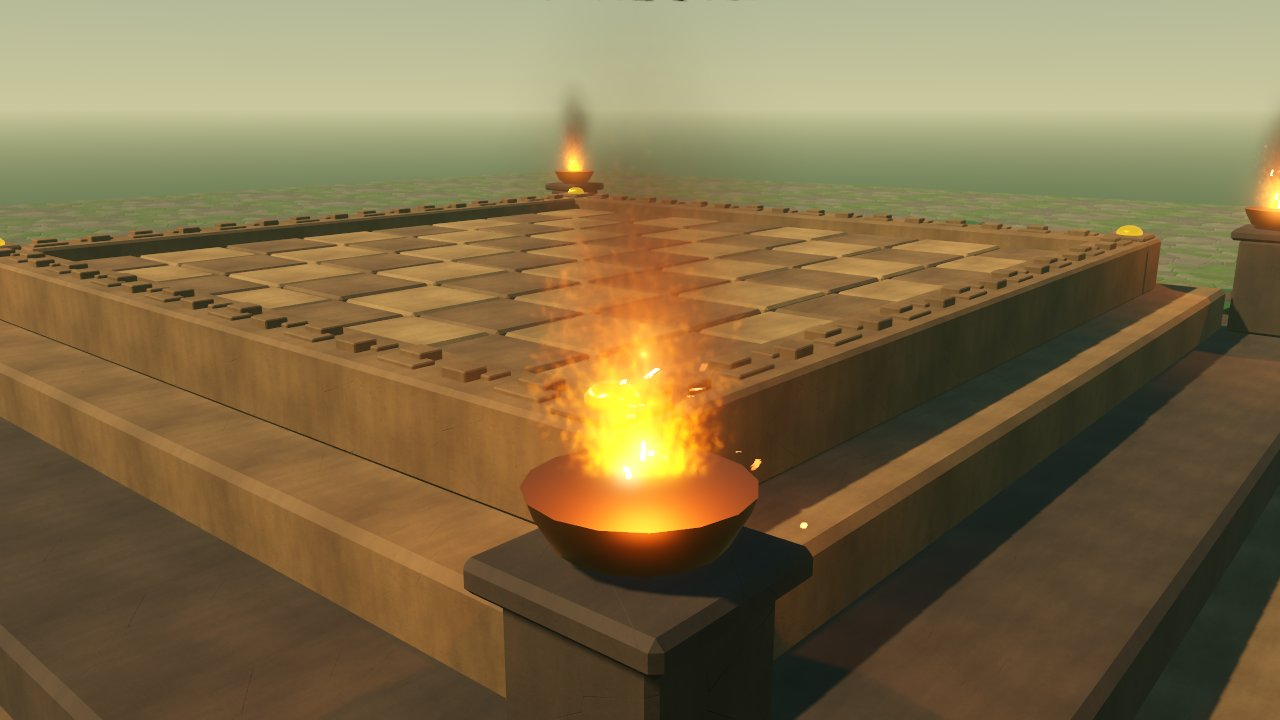
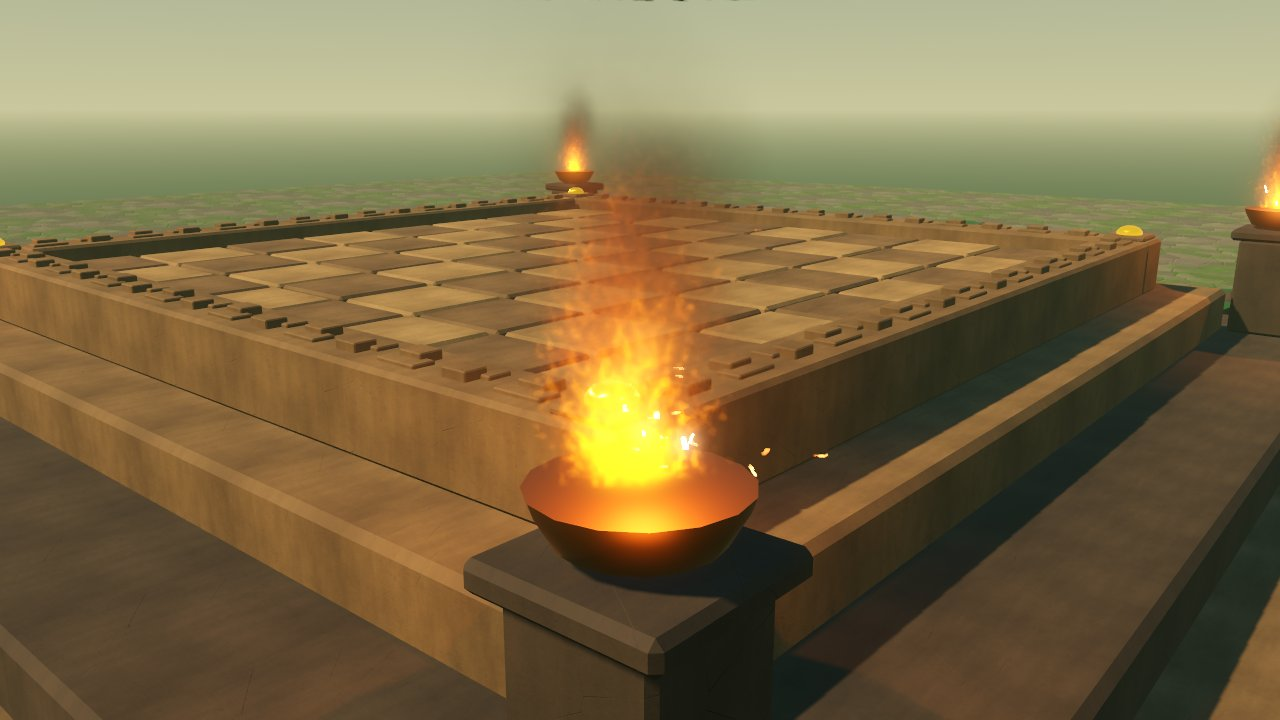
fix(fx): fire review findings and no trail warnings on web (WP-49)
- Embers carry their tube mesh in metadata; QualityTiers attaches it and
  turns trails on only on tiers that have them, and SH_EmberTrail drops
  the particle_trails render mode on Compatibility, so the web build logs
  no trail warnings (the web smoke test failed on them).
- SH_Fire brightness is relative to the hotter of the two temperatures,
  so a min above max cannot blow out; generated uniforms are grouped,
  ranged and default to the base material's values.
- gen_fire.py writes the sheets' import settings: lossless, mipmaps for
  the flame sheet, none for the motion sheet, no VRAM compression.
- SH_HeatHaze samples the screen without a mip chain.
- fire.md: hi/ materials are not swapped in by the game yet, volumetric
  fog is off in the theme, corrected memory and ALU numbers, web draw
  calls against the cap.

Claude-Session: https://claude.ai/code/session_01USZPpjveMGGEvLDbALP3BK

diff --git a/extension/src/render/quality_tiers.cpp b/extension/src/render/quality_tiers.cpp
@@ -15,6 +15,8 @@
 #include <godot_cpp/classes/config_file.hpp>
 #include <godot_cpp/classes/engine.hpp>
 #include <godot_cpp/classes/environment.hpp>
+#include <godot_cpp/classes/gpu_particles3d.hpp>
+#include <godot_cpp/classes/mesh.hpp>
 #include <godot_cpp/classes/light3d.hpp>
 #include <godot_cpp/classes/node3d.hpp>
 #include <godot_cpp/classes/omni_light3d.hpp>
@@ -23,6 +25,7 @@
 #include <godot_cpp/classes/rendering_server.hpp>
 #include <godot_cpp/classes/resource_loader.hpp>
 #include <godot_cpp/classes/scene_tree.hpp>
+#include <godot_cpp/classes/tube_trail_mesh.hpp>
 #include <godot_cpp/classes/viewport.hpp>
 #include <godot_cpp/classes/window.hpp>
 #include <godot_cpp/classes/world_environment.hpp>
@@ -322,6 +325,19 @@ void QualityTiers::apply_node(Node* node) {
                          p.has(q::Feature::FogFireLight) ? static_cast<float>(energy) : 0.0f);
     }
 
+    // Trails are authored off, with the trail mesh in metadata/trail_mesh,
+    // and switched on here: the Compatibility renderer warns as soon as a
+    // particle system has trails or a trail mesh, even a hidden one.
+    if (auto* particles = Object::cast_to<GPUParticles3D>(node);
+        particles && particles->is_in_group("quality:particle_trails")) {
+        const bool trails = p.has(q::Feature::ParticleTrails);
+        if (trails && particles->has_meta("trail_mesh")) {
+            const Ref<Mesh> mesh = particles->get_meta("trail_mesh");
+            if (mesh.is_valid()) particles->set_draw_pass_mesh(0, mesh);
+        }
+        particles->set_trail_enabled(trails);
+    }
+
     const TypedArray<StringName> groups = node->get_groups();
     for (int64_t i = 0; i < groups.size(); ++i) {
         const String group = groups[i];
@@ -440,6 +456,12 @@ void QualityTiers::run_self_test() {
     auto* cards = memnew(Node3D);
     cards->add_to_group("quality_fallback:volumetric_fog");
     scratch->add_child(cards);
+    auto* trails = memnew(GPUParticles3D);
+    trails->set_emitting(false);
+    trails->add_to_group("quality:particle_trails");
+    const Ref<TubeTrailMesh> trail_mesh = memnew(TubeTrailMesh);
+    trails->set_meta("trail_mesh", trail_mesh);
+    scratch->add_child(trails);
     std::vector<Light3D*> lights;
     for (int i = 0; i < 3; ++i) {
         auto* light = memnew(OmniLight3D);
@@ -467,6 +489,9 @@ void QualityTiers::run_self_test() {
         check(attrs->is_dof_blur_far_enabled() == p.has(q::Feature::DepthOfField), id, "depth of field");
         check(voxel->is_visible() == p.has(q::Feature::VoxelGi), id, "quality:voxel_gi node");
         check(cards->is_visible() == !p.has(q::Feature::VolumetricFog), id, "fog fallback node");
+        check(trails->is_trail_enabled() == p.has(q::Feature::ParticleTrails), id, "particle trails");
+        if (p.has(q::Feature::ParticleTrails))
+            check(trails->get_draw_pass_mesh(0) == trail_mesh, id, "particle trail mesh not attached");
         int shadowed = 0;
         for (Light3D* light : lights) shadowed += light->has_shadow() ? 1 : 0;
         check(shadowed == std::min(3, p.shadow_casting_lights), id, "shadow-casting light budget");

diff --git a/tools/assets/fx/gen_fire.py b/tools/assets/fx/gen_fire.py
@@ -322,6 +322,33 @@ def to_png(path, img):
     Image.fromarray(np.round(np.clip(img, 0, 1) * 255).astype(np.uint8), mode="RGBA").save(path, optimize=True)
 
 
+# Godot import settings for the sheets (git ignores both). The flame sheet
+# gets mipmaps, since the game camera shrinks a tile to a few dozen pixels;
+# the motion sheet must not, since averaged vectors are wrong at tile edges.
+# Both stay lossless: block compression would quantise the data channels.
+IMPORT = """[remap]
+
+importer="texture"
+type="CompressedTexture2D"
+
+[params]
+
+compress/mode=0
+mipmaps/generate={mipmaps}
+detect_3d/compress_to=0
+"""
+
+
+def write_import(png, mipmaps):
+    path = png.with_name(png.name + ".import")
+    flag = "true" if mipmaps else "false"
+    old = path.read_text() if path.exists() else ""
+    # Godot rewrites the file on import; keep its version once it agrees.
+    if f"mipmaps/generate={flag}" not in old or "detect_3d/compress_to=0" not in old:
+        path.parent.mkdir(parents=True, exist_ok=True)
+        path.write_text(IMPORT.format(mipmaps=flag))
+
+
 def main():
     params_path = Path(sys.argv[1]) if len(sys.argv) > 1 else ROOT / "tools/assets/fx/fire.json"
     p = json.loads(params_path.read_text())
@@ -334,6 +361,8 @@ def main():
     h.update(params_path.read_bytes())
     h.update(f"numpy {np.__version__} Pillow {PIL.__version__}".encode())
     stamp = out_dir / ".inputs"
+    for o in outputs:
+        write_import(o, mipmaps=o.name == "T_Fire_Flame.png")
     if stamp.exists() and stamp.read_text().strip() == h.hexdigest() and all(o.exists() for o in outputs):
         print(f"{p['theme']} fire: up to date")
         return

diff --git a/tools/assets/gen_theme_scenes.py b/tools/assets/gen_theme_scenes.py
@@ -255,8 +255,10 @@ def brazier_fire(p, theme):
     r.body += particles("Smoke", sm["amount"], sm["lifetime"], "smoke_process", "smoke_quad", mat["MI_FireSmoke"],
                         ["draw_order = 1"])
     r.body += particles("Flame", fl["amount"], fl["lifetime"], "flame_process", "flame_quad", mat["MI_Fire"])
-    r.body += particles("Embers", em["amount"], em["lifetime"], "ember_process", "ember_tube", mat["MI_EmberTrail"],
-                        ["trail_enabled = true", f"trail_lifetime = {em['trail_lifetime']}"],
+    # The trail mesh waits in metadata: QualityTiers attaches it and turns
+    # trails on only where the tier has them (Compatibility warns otherwise).
+    r.body += particles("Embers", em["amount"], em["lifetime"], "ember_process", "ember_quad", mat["MI_EmberTrail"],
+                        [f"trail_lifetime = {em['trail_lifetime']}", 'metadata/trail_mesh = SubResource("ember_tube")'],
                         groups="quality:particle_trails")
     r.body += particles("EmbersNoTrail", em["amount"], em["lifetime"], "ember_process", "ember_quad", mat["MI_Ember"],
                         groups="quality_fallback:particle_trails")

diff --git a/docs/reference/fire.md b/docs/reference/fire.md
@@ -92,6 +92,11 @@ cross-faded into the first, so frame 63 runs into frame 0.
 
 Both loops last 2.13 s, so the materials share `loop_seconds`.
 
+`gen_fire.py` also writes each sheet's Godot `.import` file (ignored by git,
+like the sheets): lossless, `detect_3d/compress_to=0`, mipmaps on for
+`T_Fire_Flame` (a tile is a few dozen pixels from the game camera) and off
+for `T_Fire_Motion` (averaged vectors are wrong at tile edges).
+
 ## `PF_BrazierFire`
 
 Parameters come from the theme's `fire` block (`tools/assets/themes/temple.json`)
@@ -127,14 +132,20 @@ soft edges.
 |---|---|---|---|
 | `flame_sheet`, `motion_sheet` | | | the sheets (data, not `source_color`) |
 | `sheet_grid` | 1 to 16 | 4 (8 in `hi/`) | tiles per side |
-| `motion_scale` | | 0.12 (0.03 in `hi/`) | must equal the sheet's `motion_scale` in `fire.json` |
-| `loop_seconds` | | 2.1333 | loop length |
-| `emission_gamma` | | 1.0 | must equal `render.emission_gamma` |
-| `temperature_min_k`, `temperature_max_k` | 600 to 2500, 1000 to 4000 | 1100, 1900 | kelvin for the sheet's temperature 0 and 1 |
+| `motion_scale` | 0.001 to 0.5 | 0.12 (0.03 in `hi/`) | must equal the sheet's `motion_scale` in `fire.json` |
+| `loop_seconds` | 0.1 to 10 | 2.1333 | loop length |
+| `emission_gamma` | 0.1 to 4 | 1.0 | must equal `render.emission_gamma` |
+| `temperature_min_k`, `temperature_max_k` | 600 to 2500, 1000 to 4000 | 1100, 1900 | kelvin for the sheet's temperature 0 and 1; keep min below max (a min above max inverts the colours but cannot blow out, since brightness is relative to the larger of the two) |
 | `temperature_brightness` | 0 to 4 | 1.5 | brightness grows as (T / max)^(4 × this) |
 | `intensity` | 0 to 40 | 10 | HDR brightness |
 | `foreshorten` | 0 to 1 | 0.45 | how much a quad shortens when seen from above |
 | `soft_distance` | 0 to 1 | 0.12 | metres over which the flame fades into geometry |
+
+`sheet_grid`, `motion_scale`, `loop_seconds` and `emission_gamma` sit in the
+inspector's `generated` group: they describe the sheets and change only
+with `fire.json`. The shader's own defaults are the base material's
+values, so resetting one in the inspector keeps the base sheet working.
+Below 1000 K the blackbody fit is out of range and gives plain red.
 
 Colour is a blackbody at the stored temperature (Planckian locus fit by
 Krystek, converted to linear sRGB), times emission, brightness and the
@@ -158,7 +169,9 @@ sample.
 ### `SH_Ember`, `SH_EmberTrail`
 
 Unshaded, additive. Colour from the particle ramp: yellow-white, orange,
-dull red, gone. `intensity` 0 to 40, default 8. `SH_EmberTrail` uses the
+dull red, gone. The ramp's colours reach the shader as linear values,
+so author them in linear (`Color(1, 0.55, 0.15)` displays paler than the
+same sRGB numbers). `intensity` 0 to 40, default 8. `SH_EmberTrail` uses the
 `particle_trails` render mode and fades along the trail.
 
 ### `SH_HeatHaze`
@@ -195,16 +208,22 @@ Shadows, volumetric fog energy and tier switches are handled by
 
 | | `desktop-high` | `desktop-standard` | `mobile` | `web` |
 |---|---|---|---|---|
-| Flame flipbook | 8×8, motion vectors (`hi/` materials) | 8×8 | 4×4 | 4×4 |
-| Smoke | lit, 8×8 | lit, 8×8 | lit, 4×4 | lit, 4×4 |
+| Flame flipbook | 8×8, motion vectors (`hi/` materials)\* | 8×8\* | 4×4 | 4×4 |
+| Smoke | lit, 8×8\* | lit, 8×8\* | lit, 4×4 | lit, 4×4 |
 | Embers | trails | trails | trails | dots, no trails |
 | Heat haze | yes | yes | no | no |
 | Fire light shadows | all four | nearest two | none | none |
-| Fire light in volumetric fog | yes | no | no fog | no fog |
+| Fire light in volumetric fog | yes\*\* | no | no fog | no fog |
 
-The `hi/` materials reach the game through `QualityTiers::resolve_variant`
-like every other desktop material; the look-dev scene `LD_Temple_Fire_Hi`
-sets them directly. The web export strips `hi/`, so it never carries the
+\* The `hi/` materials are chosen by `QualityTiers::resolve_variant`, which
+the board view does not call for materials yet
+([Board themes](board-themes.md)), so the game shows the 4×4 base sheets on
+every tier for now; the look-dev scene `LD_Temple_Fire_Hi` sets the `hi/`
+materials directly.
+
+\*\* The light carries `light_volumetric_fog_energy` 2.0, but the temple
+environment does not enable volumetric fog yet, so nothing shows until it
+does. The web export strips `hi/`, so it never carries the
 8×8 sheets.
 
 ## Cost
@@ -212,14 +231,16 @@ sets them directly. The web export strips `hi/`, so it never carries the
 | Item | Number |
 |---|---|
 | Particles, four fires | 4 × (10 flame + 12 smoke + 18 embers) = 160, budget 2,000 on `web` |
-| Draw calls added | 11 on `web` (268 → 279 at the benchmark's p95) |
-| Texture memory | two 1024×2048 sheets (`hi/`) and two 512×1024 (base): about 22 MB and 6 MB as RGBA8 with mipmaps, a quarter of that once Godot VRAM-compresses them on import |
-| Flame pixel | 4 texture samples + 1 depth sample, about 60 ALU |
+| Draw calls added | 11 on `web` (268 → 279 at the benchmark's p95). The web cap is 200 ([Visual target](visual-target.md)); `main` was already over it before the fire |
+| Texture memory | lossless RGBA8, no VRAM compression (block compression would quantise the temperature and motion data): base 512×1024 flame with mipmaps 2.7 MiB + motion 2 MiB; `hi/` 1024×2048 flame with mipmaps 10.7 MiB + motion 8 MiB |
+| Flame pixel | 4 texture samples + 1 depth sample, about 110 ALU (blackbody fit, four tile lookups, edge fades) |
 | Measured | Benchmark, `web` tier, llvmpipe software renderer: mean GPU frame 868 ms with the fire against 819 ms without (+6 %). Software timings only rank costs; the tier budgets are checked on reference hardware with [Run the benchmark](../how-to/run-the-benchmark.md). |
 
-The Compatibility renderer logs three warnings at start that it does not
-support particle trails; they come from the hidden `Embers` node and are
-harmless.
+`Embers` is authored without trails and with its tube mesh in
+`metadata/trail_mesh`; `QualityTiers` attaches the mesh and turns trails on
+only on tiers that have them, and `SH_EmberTrail` drops the `particle_trails`
+render mode on Compatibility, so the web build logs no trail warnings (the
+web smoke test fails on any browser console warning).
 
 ## Readability
 

diff --git a/docs/reference/quality-tiers.md b/docs/reference/quality-tiers.md
@@ -89,7 +89,7 @@ target names.
 | `heat_haze` | nodes in `quality:heat_haze` | ✔ | ✔ | — | — |
 | `decals` | nodes in `quality:decals` | ✔ | ✔ | ✔ | — |
 | `area_light` | nodes in `quality:area_light` | ✔ | — | — | — |
-| `particle_trails` | nodes in `quality:particle_trails` | ✔ | ✔ | ✔ | — |
+| `particle_trails` | nodes in `quality:particle_trails`; on a `GPUParticles3D` in that group it also sets `trail_enabled` and, where trails are on, makes `metadata/trail_mesh` its first draw pass. Author trails off and the trail mesh in that metadata: the Compatibility renderer warns about any particle system with trails or a trail mesh, hidden or not | ✔ | ✔ | ✔ | — |
 | `fire_flipbook_8x8` | nodes in `quality:fire_flipbook_8x8` (4×4 in the fallback group) | ✔ | ✔ | — | — |
 
 ## Node groups
